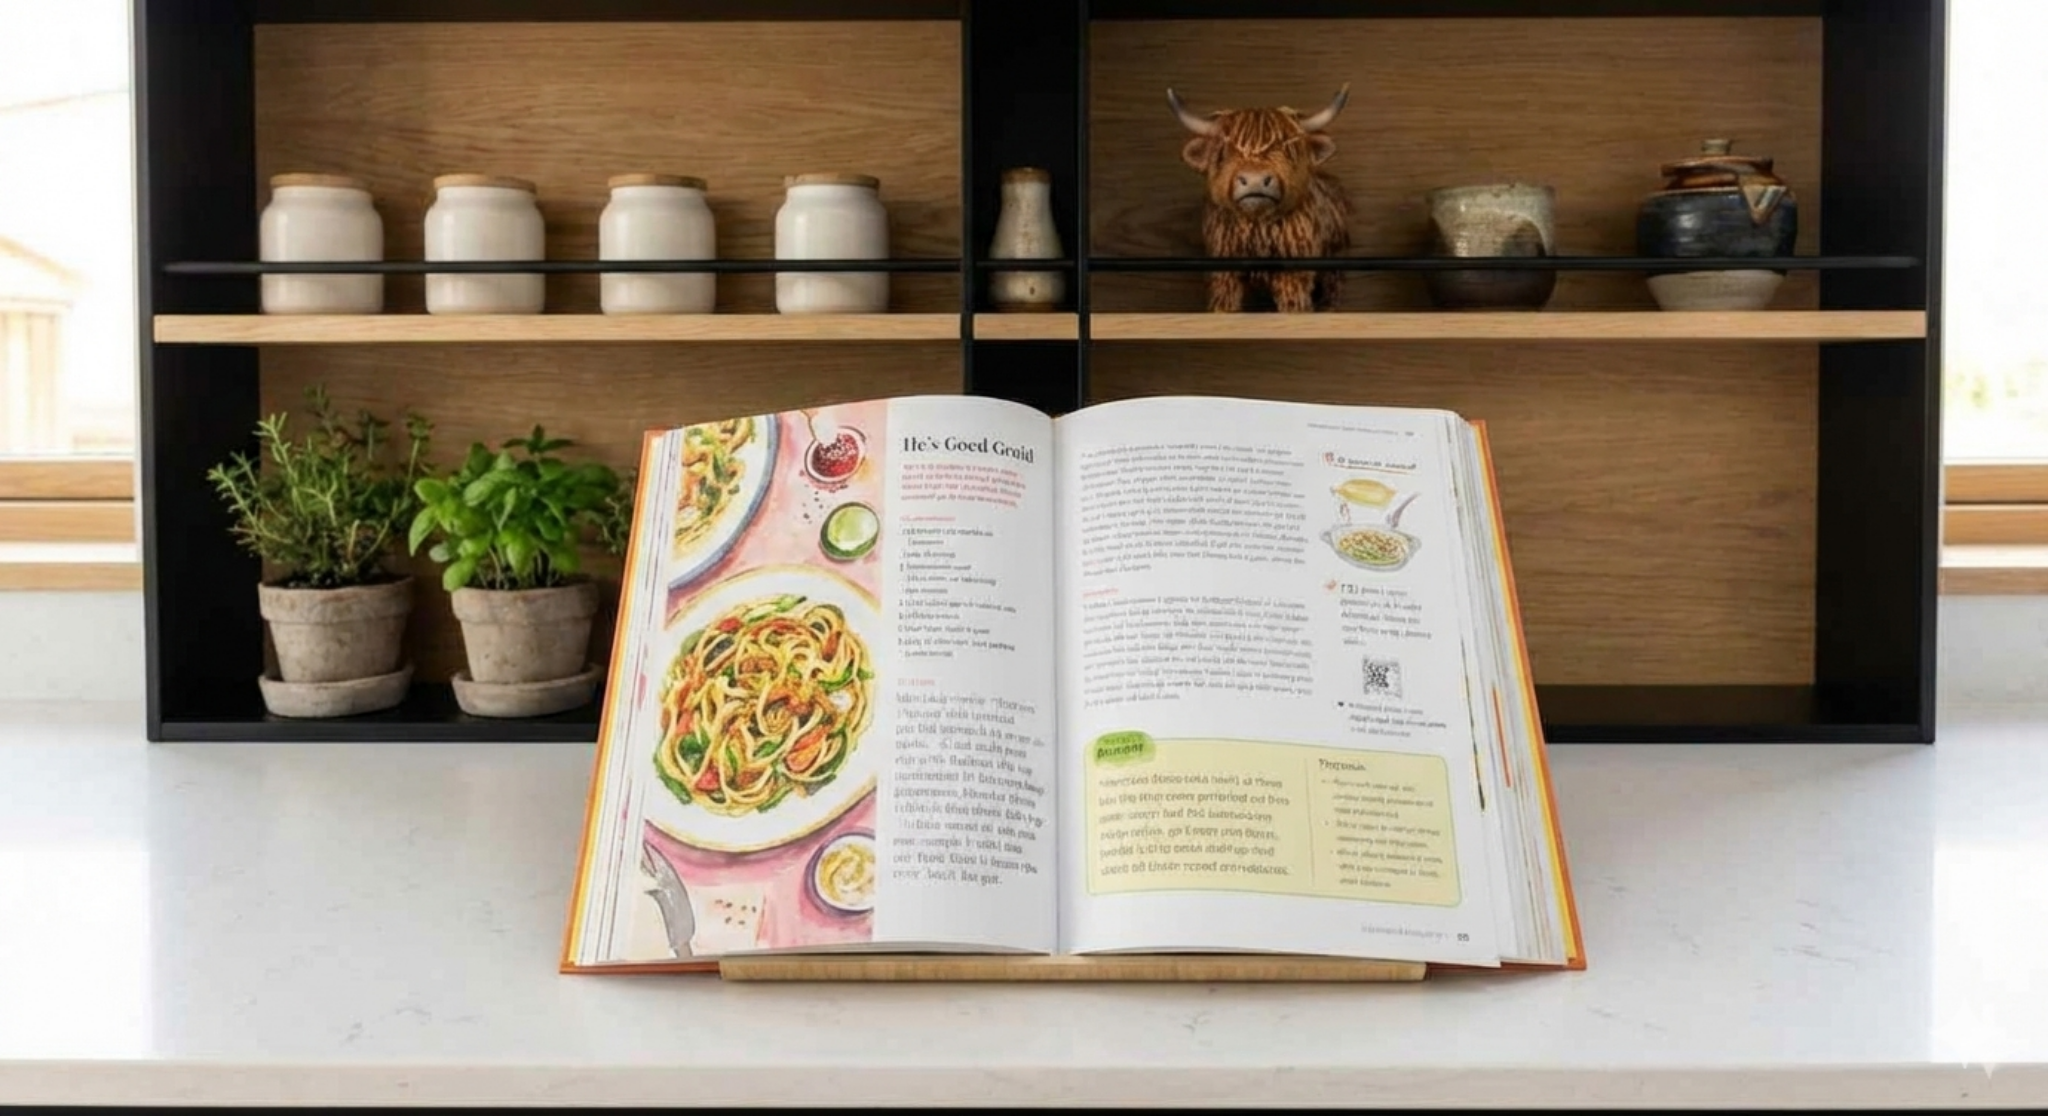
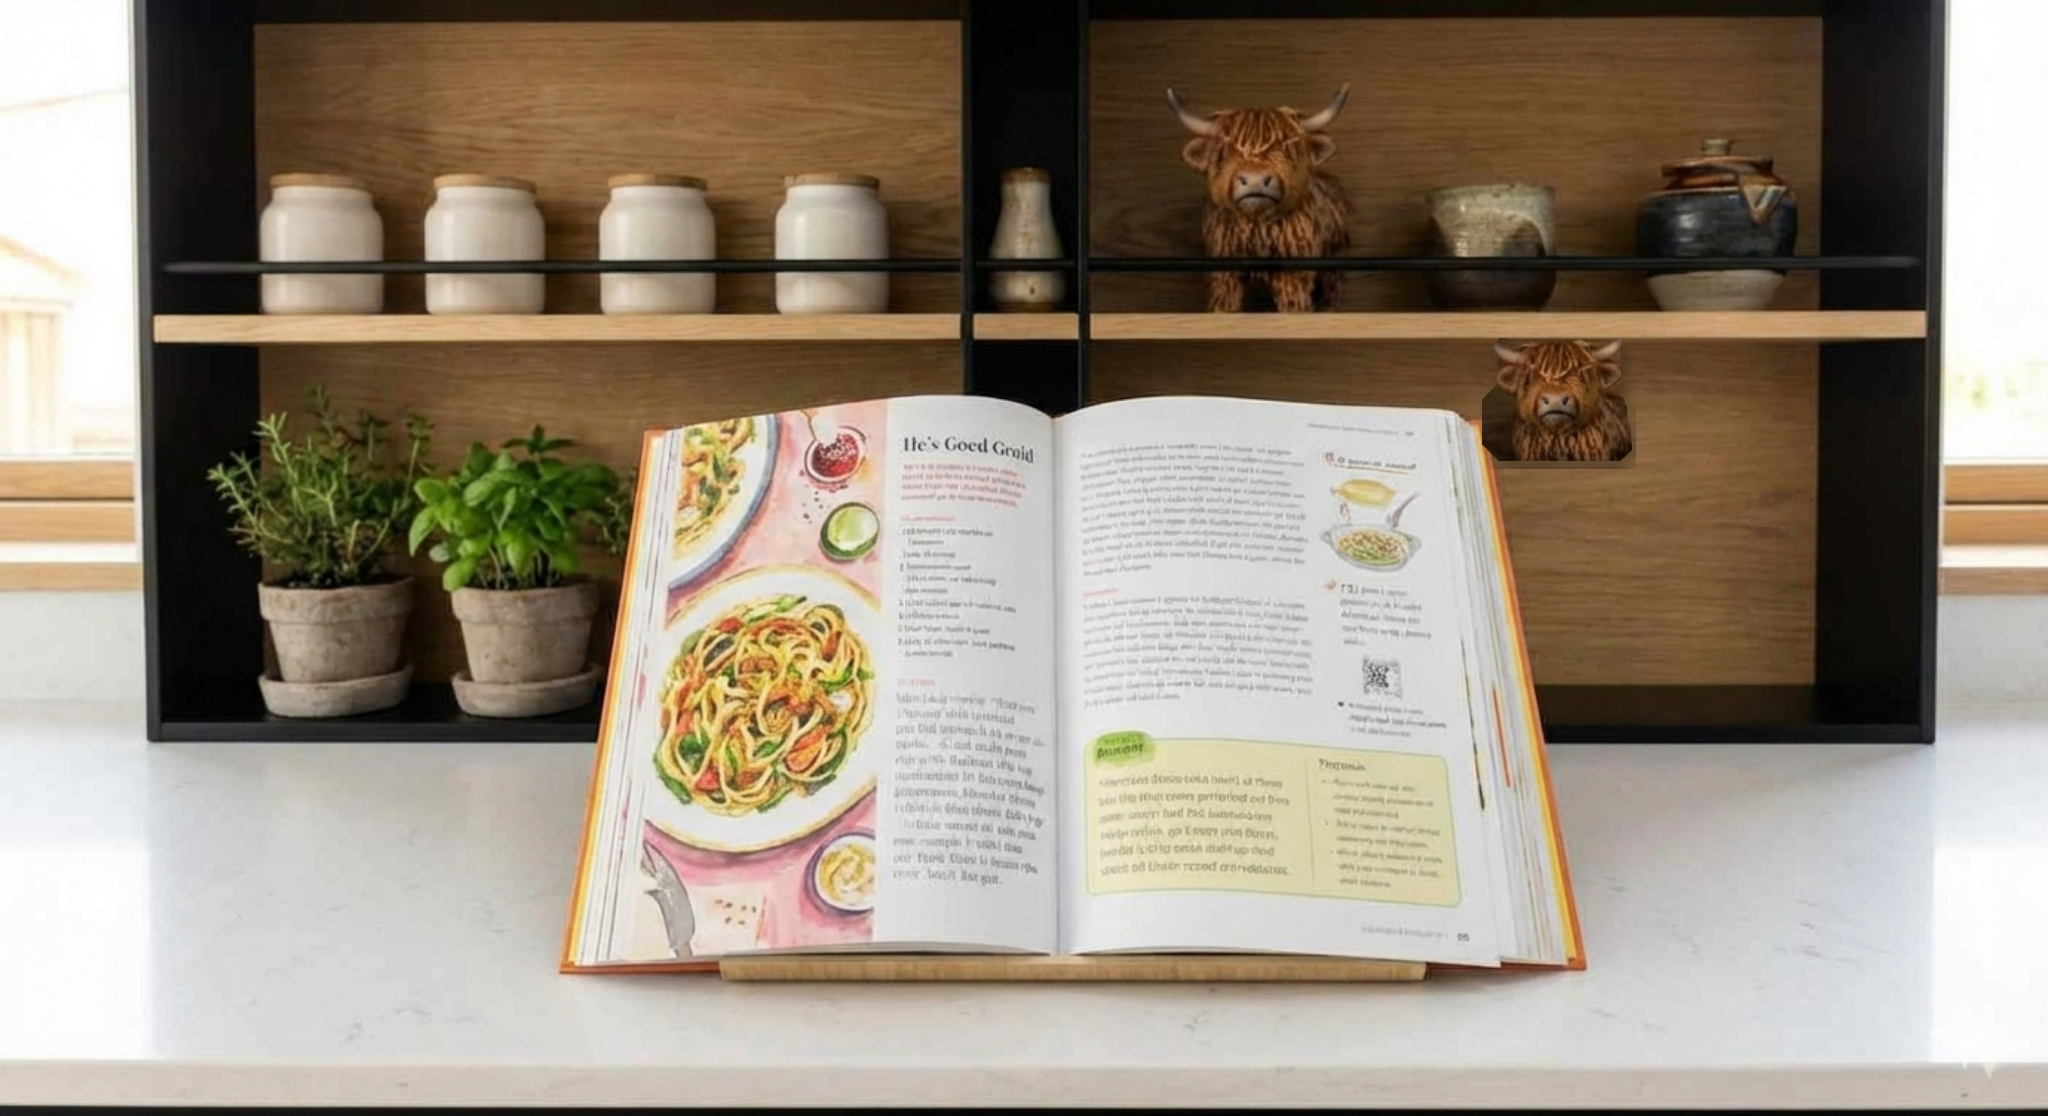
.

Changed region(s): [[0.7188, 0.3047, 0.8125, 0.4265]]

diff --git a/style.css b/style.css
@@ -1,6 +1,6 @@
 :root {
-  --paper: rgba(255, 255, 255, 0.93);
-  --paper-2: rgba(249, 248, 244, 0.97);
+  --paper: rgba(255, 255, 255, 0.92);
+  --paper-2: rgba(249, 248, 244, 0.96);
   --ink: #101010;
   --muted: #595959;
   --wood: #b88a56;
@@ -51,7 +51,7 @@ button {
   content: "";
   position: absolute;
   inset: 0;
-  background: linear-gradient(to bottom, rgba(255,255,255,0.12), rgba(255,255,255,0.18));
+  background: linear-gradient(to bottom, rgba(255,255,255,0.10), rgba(255,255,255,0.18));
   pointer-events: none;
 }
 
@@ -69,13 +69,13 @@ button {
 }
 
 .brand {
-  background: rgba(255, 255, 255, 0.78);
+  background: rgba(255, 255, 255, 0.80);
   border: 1px solid rgba(255,255,255,0.34);
   backdrop-filter: blur(8px);
-  padding: 14px 18px;
-  border-radius: 18px;
+  padding: 14px 20px;
+  border-radius: 22px;
   box-shadow: 0 10px 24px rgba(0,0,0,0.08);
-  max-width: 420px;
+  max-width: 500px;
 }
 
 .brand-kicker,
@@ -89,8 +89,8 @@ button {
 
 .brand h1 {
   margin: 0;
-  font-size: clamp(1.35rem, 1.1vw + 1rem, 2rem);
-  line-height: 1.05;
+  font-size: clamp(1.5rem, 1.8vw + 1rem, 3rem);
+  line-height: 1.03;
 }
 
 .brand-sub {
@@ -100,11 +100,16 @@ button {
 }
 
 .toolbar-right,
-.chip-row {
+.chip-row,
+.pill-selector {
   display: flex;
   gap: 10px;
   align-items: center;
   flex-wrap: wrap;
+}
+
+.toolbar-right,
+.chip-row {
   justify-content: flex-end;
 }
 
@@ -112,30 +117,34 @@ button {
 .wood-btn,
 .nav-btn,
 .flip-btn,
-.icon-close {
+.icon-close,
+.pill-btn {
   border: none;
   border-radius: 999px;
   padding: 11px 16px;
-  transition: transform 0.18s ease, box-shadow 0.18s ease, opacity 0.18s ease;
+  transition: transform 0.18s ease, box-shadow 0.18s ease, opacity 0.18s ease, background 0.18s ease;
 }
 
 .chip:hover,
 .wood-btn:hover,
 .nav-btn:hover,
 .flip-btn:hover,
-.icon-close:hover {
+.icon-close:hover,
+.pill-btn:hover {
   transform: translateY(-1px);
 }
 
 .chip,
-.nav-btn {
-  background: rgba(255,255,255,0.9);
+.nav-btn,
+.pill-btn {
+  background: rgba(255,255,255,0.92);
   color: var(--ink);
   border: 1px solid rgba(16,16,16,0.08);
   box-shadow: 0 8px 18px rgba(0,0,0,0.06);
 }
 
-.chip.active {
+.chip.active,
+.pill-btn.active {
   background: var(--ink);
   color: #fff;
 }
@@ -156,11 +165,12 @@ button {
 .book-wrap {
   position: absolute;
   left: 50%;
-  top: 56%;
-  transform: translate(-50%, -50%);
-  width: min(62vw, 860px);
+  top: 57.5%;
+  width: min(54vw, 760px);
   aspect-ratio: 1.56 / 1;
   z-index: 10;
+  transform: translate(-50%, -50%) perspective(1800px) rotateX(30deg) rotateY(-1.5deg) rotateZ(-2.2deg) skewX(-4deg);
+  transform-style: preserve-3d;
 }
 
 .book-shell {
@@ -423,8 +433,7 @@ label {
 }
 
 input,
-textarea,
-select {
+textarea {
   width: 100%;
   border-radius: 16px;
   border: 1px solid rgba(16,16,16,0.12);
@@ -450,8 +459,8 @@ textarea {
 
 @media (max-width: 1100px) {
   .book-wrap {
-    width: min(78vw, 860px);
-    top: 58%;
+    width: min(66vw, 760px);
+    top: 58.5%;
   }
 }
 
@@ -459,6 +468,7 @@ textarea {
   .scene {
     min-height: auto;
     padding: 18px 14px 22px;
+    background-position: 70% center;
   }
 
   .toolbar {
@@ -481,15 +491,16 @@ textarea {
     position: relative;
     left: auto;
     top: auto;
-    transform: none;
     width: 100%;
     aspect-ratio: auto;
     max-width: 760px;
-    margin: 0 auto;
+    margin: 8px auto 0;
+    transform: none;
   }
 
   .book-shell {
     grid-template-columns: 1fr;
+    border-radius: 22px;
   }
 
   .book-shell::before {
@@ -528,5 +539,9 @@ textarea {
 
   .form-grid {
     grid-template-columns: 1fr;
+  }
+
+  .mini-controls {
+    justify-content: center;
   }
 }

diff --git a/app.js b/app.js
@@ -1,6 +1,7 @@
 const STORAGE_KEY = "recipe-book-local-v1";
 const STARTER_DATA_PATH = "data/recipes.json";
 const FALLBACK_IMAGE = "https://images.unsplash.com/photo-1547592180-85f173990554?auto=format&fit=crop&w=1200&q=80";
+const CATEGORY_OPTIONS = ["Breakfast", "Lunch", "Dinner", "Dessert", "Snacks", "Drinks"];
 
 const recipeCard = document.getElementById("recipeCard");
 const recipeImage = document.getElementById("recipeImage");
@@ -22,6 +23,8 @@ const closeFormBtn = document.getElementById("closeFormBtn");
 const cancelBtn = document.getElementById("cancelBtn");
 const recipeModal = document.getElementById("recipeModal");
 const recipeForm = document.getElementById("recipeForm");
+const formCategoryPills = document.getElementById("formCategoryPills");
+const categoryInput = document.getElementById("category");
 
 let starterRecipes = [];
 let userRecipes = loadLocalRecipes();
@@ -59,9 +62,10 @@ function ensureArray(value) {
 }
 
 function normalizeRecipe(recipe) {
+  const category = String(recipe.category || "Dinner").trim();
   return {
     title: String(recipe.title || "Untitled Recipe").trim(),
-    category: String(recipe.category || "Dinner").trim(),
+    category: CATEGORY_OPTIONS.includes(category) ? category : "Dinner",
     image: String(recipe.image || "").trim(),
     description: String(recipe.description || "").trim(),
     ingredients: ensureArray(recipe.ingredients),
@@ -84,7 +88,7 @@ function renderList(items, target) {
 }
 
 function renderCategories() {
-  const categories = ["All", ...new Set(allRecipes().map((recipe) => recipe.category).filter(Boolean))];
+  const categories = ["All", ...CATEGORY_OPTIONS];
   categoryRow.innerHTML = "";
 
   categories.forEach((category) => {
@@ -103,6 +107,21 @@ function renderCategories() {
   });
 }
 
+function renderFormCategoryPills() {
+  formCategoryPills.innerHTML = "";
+  CATEGORY_OPTIONS.forEach((category) => {
+    const button = document.createElement("button");
+    button.type = "button";
+    button.className = `pill-btn${categoryInput.value === category ? " active" : ""}`;
+    button.textContent = category;
+    button.addEventListener("click", () => {
+      categoryInput.value = category;
+      renderFormCategoryPills();
+    });
+    formCategoryPills.appendChild(button);
+  });
+}
+
 function renderRecipe() {
   const recipes = filteredRecipes();
 
@@ -110,7 +129,7 @@ function renderRecipe() {
     recipeImage.src = FALLBACK_IMAGE;
     recipeImage.alt = "No recipe available";
     recipeCategory.textContent = activeCategory;
-    recipeTitle.textContent = "No recipes here yet";
+    recipeTitle.textContent = activeCategory === "All" ? "No recipes here yet" : `No ${activeCategory.toLowerCase()} recipes yet`;
     recipeDescription.textContent = "Add your first recipe with the button above.";
     ingredientsList.innerHTML = "<li>Start by adding a recipe.</li>";
     stepsList.innerHTML = "<li>It will appear here automatically.</li>";
@@ -141,13 +160,15 @@ function renderRecipe() {
 function openModal() {
   recipeModal.classList.add("show");
   recipeModal.setAttribute("aria-hidden", "false");
+  renderFormCategoryPills();
 }
 
 function closeModal() {
   recipeModal.classList.remove("show");
   recipeModal.setAttribute("aria-hidden", "true");
   recipeForm.reset();
-  document.getElementById("category").value = "Dinner";
+  categoryInput.value = "Dinner";
+  renderFormCategoryPills();
 }
 
 function parseLines(value) {
@@ -227,5 +248,6 @@ recipeForm.addEventListener("submit", (event) => {
 });
 
 renderCategories();
+renderFormCategoryPills();
 renderRecipe();
 loadStarterRecipes();

diff --git a/index.html b/index.html
@@ -3,15 +3,15 @@
 <head>
   <meta charset="UTF-8" />
   <meta name="viewport" content="width=device-width, initial-scale=1.0" />
-  <title>My Recipe Book</title>
+  <title>Bari Family Cook Book</title>
   <link rel="stylesheet" href="style.css" />
 </head>
 <body>
   <div class="scene">
     <header class="toolbar">
       <div class="brand">
-        <p class="brand-kicker">Kitchen Book</p>
-        <h1>My Recipe Book</h1>
+        <p class="brand-kicker">Family Kitchen Book</p>
+        <h1>Bari Family Cook Book</h1>
         <p class="brand-sub">Fresh, simple, flip-through recipes right on the counter.</p>
       </div>
 
@@ -60,13 +60,13 @@
           <div class="side-panel">
             <div class="notes-box">
               <div class="eyebrow">Recipe Notes</div>
-              <h3 class="section-title">Kitchen counter edition</h3>
-              <p id="recipeNotes">Use the Add Recipe button to build your own cookbook. New recipes save in your browser on this device.</p>
+              <h3 class="section-title">Family kitchen edition</h3>
+              <p id="recipeNotes">Use the Add Recipe button to build your own cookbook. This layout is mobile-friendly, so your wife can open it on her phone and browse recipes easily.</p>
             </div>
 
-            <div class="notes-box">
-              <div class="eyebrow">Form Tip</div>
-              <p>In the form, put one ingredient per line and one direction per line so everything drops into the cookbook cleanly.</p>
+            <div class="notes-box phone-note">
+              <div class="eyebrow">Phone Use</div>
+              <p>Anything added from the form saves on that specific phone or browser. To keep recipes shared for both of you, also copy them into <strong>data/recipes.json</strong> in the repo.</p>
             </div>
 
             <div class="mini-controls">
@@ -86,7 +86,7 @@
       <div class="modal-head">
         <div>
           <h2>Add a recipe</h2>
-          <p>Fill this out like a recipe card. Ingredients and directions should each be one item per line.</p>
+          <p>Pick a category pill, then put one ingredient per line and one direction per line.</p>
         </div>
         <button class="icon-close" id="closeFormBtn" type="button" aria-label="Close form">×</button>
       </div>
@@ -99,15 +99,9 @@
           </div>
 
           <div class="field">
-            <label for="category">Category</label>
-            <select id="category" name="category">
-              <option>Breakfast</option>
-              <option>Lunch</option>
-              <option selected>Dinner</option>
-              <option>Dessert</option>
-              <option>Snacks</option>
-              <option>Drinks</option>
-            </select>
+            <label>Category</label>
+            <input id="category" name="category" type="hidden" value="Dinner" />
+            <div class="pill-selector" id="formCategoryPills"></div>
           </div>
 
           <div class="field field-full">

diff --git a/README.md b/README.md
@@ -1,26 +1,28 @@
-# Recipe Book
+# Bari Family Cook Book
 
-GitHub Pages recipe site with:
-- kitchen background image
-- cookbook overlay on the counter
-- flip-style recipe card
-- Add Recipe form
-- starter recipes from `data/recipes.json`
-- new recipes saved in browser local storage
+This is a GitHub Pages recipe book with a kitchen-scene background and a cookbook overlay.
 
-## Files
-- `index.html`
-- `style.css`
-- `app.js`
-- `data/recipes.json`
-- `assets/kitchen-bg.png`
+## What changed
+- Title updated to **Bari Family Cook Book**
+- Removed the old Form Tip box
+- Added category pills in the top filter row
+- Added category pill buttons inside the Add Recipe form
+- Warped the cookbook overlay more so it sits over the printed book in the background
+- Added another highland cow to the kitchen background
+- Kept the site mobile-friendly so it opens well on a phone
 
-## Add your own recipes permanently
-Edit `data/recipes.json` and add recipe objects.
+## Important shared-use note
+This site works on your wife's phone for viewing and using the form.
 
-## Add your own food photos
-Upload them into your repo and use the image path in your recipes, for example:
-`assets/images/lasagna.jpg`
+Recipes added with the form are saved in that specific browser using local storage, so:
+- recipes added on your phone stay on your phone
+- recipes added on her phone stay on her phone
 
-## Note
-Recipes added with the on-page form save only in that browser/device unless you also copy them into `data/recipes.json`.
+To make recipes shared for both of you, also copy them into:
+
+`data/recipes.json`
+
+That file is part of the site and will be the shared version once pushed to GitHub Pages.
+
+## Publish
+Upload the `recipe_site` folder contents to your GitHub Pages repo root, or copy the files into an existing repo and enable Pages.
